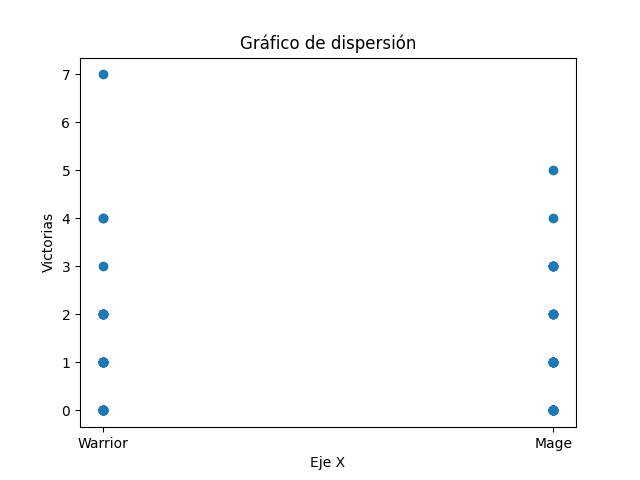
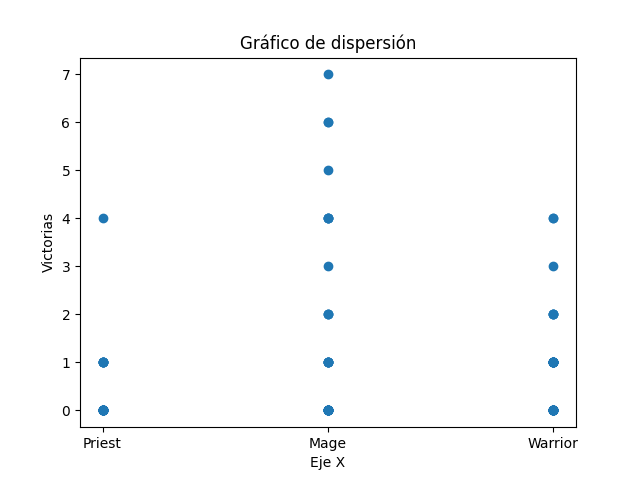
Update 4 files

diff --git a/Practica1-20230215/materiales/combat.py b/Practica1-20230215/materiales/combat.py
@@ -23,12 +23,18 @@ def combat(personajes):
     if isinstance(attacker, Priest):
         if random.random() < 0.25:
             attacker.life = attacker.heal() + attacker.life
+
+            if attacker.get_name() not in resultados:
+                resultados[attacker.get_name()] = {"clase": type(attacker).__name__,"victorias": 0,"daño_total": 0, "total_peleas_atacante":0,"curación": attacker.heal()}
+            else:
+                resultados[attacker.get_name()]["curación"] += attacker.heal()
+
             return
             #print("El",attacker.name,"se ha curado",attacker.heal(),"y ahora tiene",attacker.life)
         else:
             damage = attacker.attack()
-
-    damage = attacker.attack()
+    else:
+        damage = attacker.attack()
 
     reduced_damage = defender.defend() # Calcular cuánto daño se reduce por la defensa del defensor
     damage_received = max(damage - reduced_damage, 0) # El daño reducido nunca puede ser mayor que el daño causado
@@ -36,13 +42,13 @@ def combat(personajes):
 
     # Actualizar los resultados
     if attacker.get_name() not in resultados:
-        resultados[attacker.get_name()] = {"clase": type(attacker).__name__,"victorias": 0,"daño_total": 0, "total_peleas_atacante":0}
+        resultados[attacker.get_name()] = {"clase": type(attacker).__name__,"victorias": 0,"daño_total": 0, "total_peleas_atacante":0,"curación":0}
     else:
         resultados[attacker.get_name()]["daño_total"] += damage_received
         resultados[attacker.get_name()]["total_peleas_atacante"] += 1
 
     if defender.get_name() not in resultados:
-        resultados[defender.get_name()] = {"clase": type(attacker).__name__,"victorias": 0,"daño_total": damage_received, "total_peleas_atacante":0}
+        resultados[defender.get_name()] = {"clase": type(attacker).__name__,"victorias": 0,"daño_total": 0, "total_peleas_atacante":0,"curación":0}
 
     # Comprobar si el defensor ha muerto
     if defender.life <= 0:

diff --git a/Practica1-20230215/materiales/main.py b/Practica1-20230215/materiales/main.py
@@ -43,9 +43,13 @@ def run(path):
     df["daño_medio"] = df["daño_total"] / df["total_peleas_atacante"]
     df["desviacion_tipica"] = df["daño_total"].apply(lambda x: np.sqrt(((df["daño_total"] - x)**2).sum() / df["daño_total"].count()))
 
+    df_sorted = df.sort_values(by="victorias", ascending=False)
     df.groupby("nombre")[["daño_medio", "desviacion_tipica"]].mean().reset_index()
-    print(df.to_string(max_rows=None))
+    print(df_sorted.to_string(max_rows=None))
 
+    
+    class_stats = df.groupby('clase')['daño_medio'].agg(['mean', 'std'])
+    print(class_stats)
 
     import matplotlib.pyplot as plt
 
